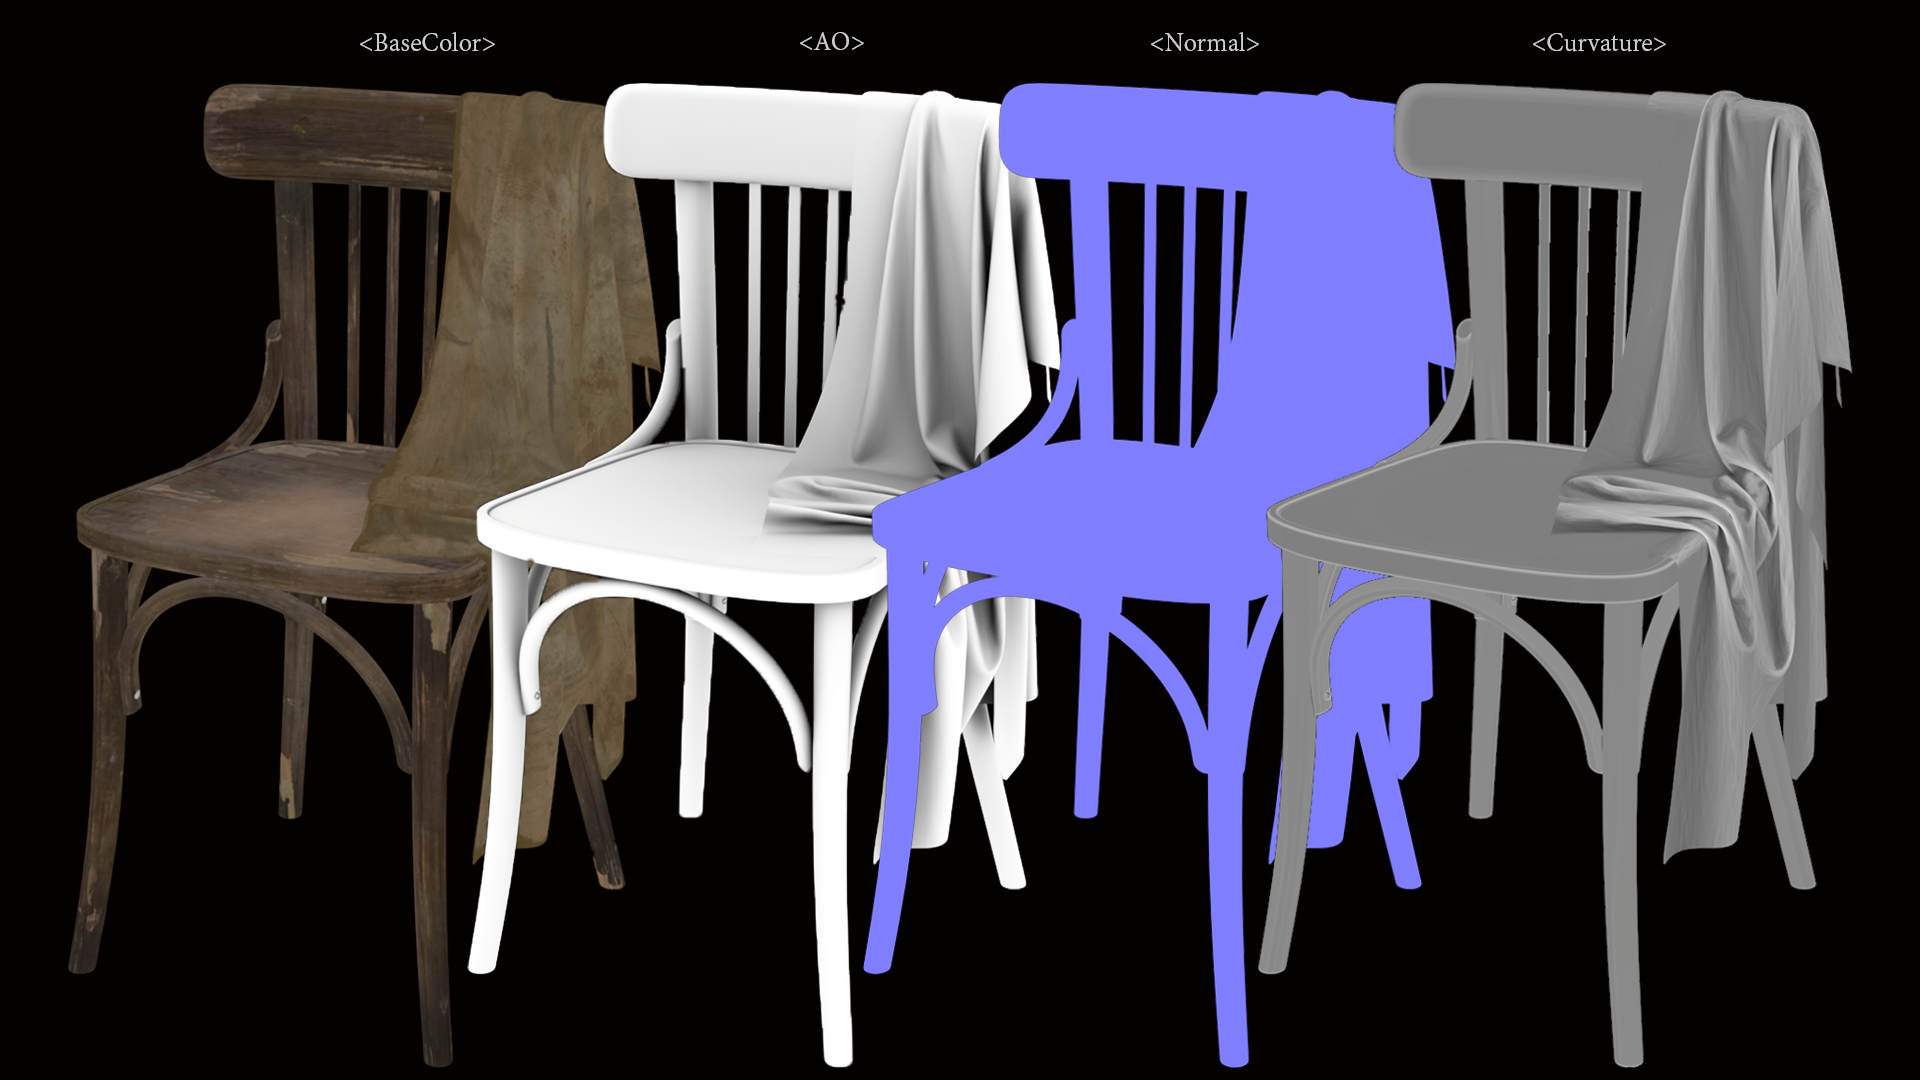
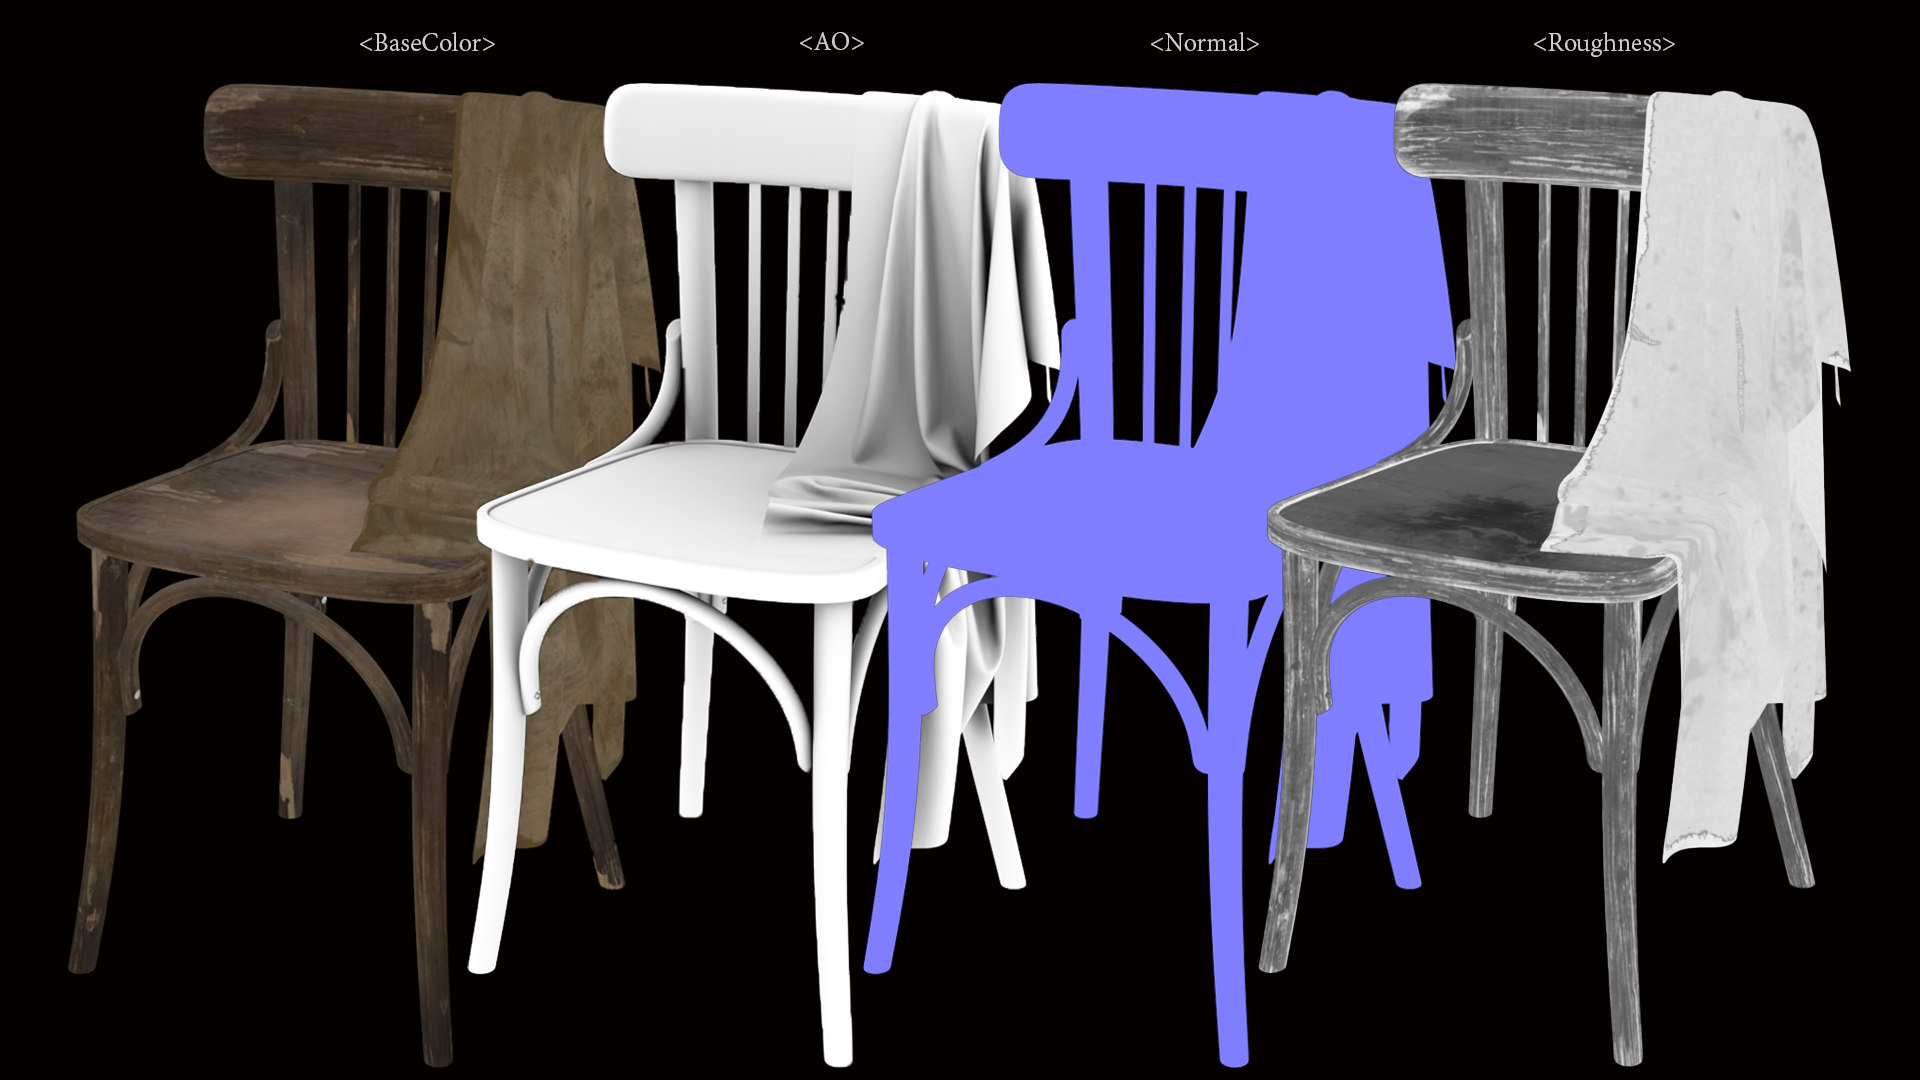
go

Changed region(s): [[0.6562, 0.0306, 0.9688, 0.9778]]

diff --git a/index.html b/index.html
@@ -11,7 +11,7 @@
   <link rel="preconnect" href="https://fonts.googleapis.com">
   <link rel="preconnect" href="https://fonts.gstatic.com" crossorigin>
   <link rel="preconnect" href="https://cdnjs.cloudflare.com">
-  <link href="https://fonts.googleapis.com/css2?family=Barlow+Condensed:wght@800;900&display=swap" rel="stylesheet">
+  <link href="https://fonts.googleapis.com/css2?family=Barlow+Condensed:wght@800;900&family=Noto+Sans+KR:wght@400;500;600;700;800;900&display=swap" rel="stylesheet">
   <link rel="stylesheet" href="https://cdnjs.cloudflare.com/ajax/libs/font-awesome/6.5.2/css/all.min.css">
 
   <script>
@@ -183,8 +183,8 @@
       position: absolute;
       inset: 0;
       background:
-        linear-gradient(90deg, rgba(0, 0, 0, .82) 0%, rgba(0, 0, 0, .28) 46%, rgba(0, 0, 0, .56) 100%),
-        linear-gradient(180deg, rgba(0, 0, 0, .34) 0%, rgba(0, 0, 0, .16) 44%, rgba(0, 0, 0, .92) 100%);
+        linear-gradient(90deg, rgba(0, 0, 0, .205) 0%, rgba(0, 0, 0, .07) 46%, rgba(0, 0, 0, .14) 100%),
+        linear-gradient(180deg, rgba(0, 0, 0, .085) 0%, rgba(0, 0, 0, .04) 44%, rgba(0, 0, 0, .23) 100%);
     }
 
     .hero-outline {
@@ -307,6 +307,11 @@
       background: #020305;
     }
 
+    .project-section {
+      border-top: 1px solid rgba(255, 255, 255, .10);
+      padding-bottom: 5rem;
+    }
+
     .works-frame {
       width: 100%;
     }
@@ -331,6 +336,10 @@
 
     .works-title span {
       color: #27a9ff;
+    }
+
+    .project-title {
+      font-size: clamp(calc(5.3rem + 2pt), calc(6.35vw + 2pt), calc(8.2rem + 2pt));
     }
 
     .works-head-line {
@@ -982,18 +991,37 @@
       width: var(--about-copy-width);
       height: var(--about-panel-height);
       max-width: none;
-      color: rgba(255, 255, 255, .64);
-      font-size: .98rem;
+      color: rgba(255, 255, 255, .69);
+      font-size: 1.05rem;
       line-height: 1.9;
     }
 
-    .about-copy strong {
+    .about-copy > strong {
       display: block;
       margin-bottom: .65rem;
       color: rgba(244, 240, 232, .88);
       font-size: clamp(1.45rem, 2vw, 2.1rem);
-      font-weight: 600;
+      font-family: "Noto Sans KR", "Malgun Gothic", system-ui, sans-serif;
+      font-weight: 700;
+      letter-spacing: -.035em;
       line-height: 1.45;
+      -webkit-font-smoothing: antialiased;
+      text-rendering: geometricPrecision;
+    }
+
+    .about-copy > p + p {
+      margin-top: 1.35rem;
+    }
+
+    .about-copy > p b,
+    .about-copy > p strong {
+      display: inline;
+      margin: 0;
+      color: #ffffff;
+      font-size: inherit;
+      font-weight: 900;
+      line-height: inherit;
+      text-shadow: 0 0 14px rgba(255, 255, 255, .12);
     }
 
     .about-profile-panel {
@@ -1084,6 +1112,8 @@
     }
 
     .about-education-year {
+      display: block;
+      margin-bottom: .2rem;
       color: rgba(244, 240, 232, .86);
       font-weight: 700;
     }
@@ -1204,6 +1234,10 @@
 
       .works-title {
         font-size: clamp(3.8rem, 18vw, 5.6rem);
+      }
+
+      .project-title {
+        font-size: clamp(calc(2.72rem + 7pt), calc(12.85vw + 7pt), calc(4rem + 7pt));
       }
 
       .works-head-line,
@@ -1515,8 +1549,8 @@
       }
 
       .about-layout {
-        --about-frame-width: min(100vw, calc((100vh - var(--header-height)) * 1.7777777778));
-        --about-frame-height: min(56.25vw, calc(100vh - var(--header-height)));
+        --about-frame-width: min(96vw, calc((100vh - var(--header-height)) * 1.7777777778));
+        --about-frame-height: calc(var(--about-frame-width) * .5625);
         --about-photo-height: 36.75cqw;
         --about-photo-width: 33.55cqw;
         --about-content-gap: 3.1cqw;
@@ -1524,14 +1558,14 @@
         height: var(--about-frame-height);
         aspect-ratio: 16 / 9;
         display: grid;
-        grid-template-columns: minmax(0, 72%) minmax(0, 1fr);
+        grid-template-columns: minmax(0, 72.5%) minmax(0, 25.1%);
         grid-template-rows: minmax(0, 1fr) auto;
         align-items: start;
         gap: 2.4%;
         row-gap: 2.15cqw;
         max-width: none;
         margin: 0 auto;
-        padding: 3.1% 2.8%;
+        padding: 3.1% 1.8%;
         container-type: inline-size;
         overflow: hidden;
       }
@@ -1567,11 +1601,11 @@
       .about-copy {
         width: 100%;
         height: 100%;
-        font-size: clamp(.72rem, .82cqw, .98rem);
-        line-height: 1.75;
+        font-size: clamp(.78rem, .9cqw, 1.05rem);
+        line-height: 1.72;
       }
 
-      .about-copy strong {
+      .about-copy > strong {
         margin-bottom: .65em;
         font-size: clamp(1.1rem, 1.55cqw, 2.1rem);
         line-height: 1.35;
@@ -1666,7 +1700,7 @@
     <section id="hero" class="section-view is-active">
       <div class="hero-media" aria-hidden="true">
         <img src="images/Personal/20260302_Antique Fireplace/main.png" alt="">
-        <iframe src="https://www.youtube.com/embed/LSr3tn-VHos?autoplay=1&amp;mute=1&amp;loop=1&amp;playlist=LSr3tn-VHos&amp;controls=0&amp;playsinline=1&amp;rel=0&amp;modestbranding=1" title="Portfolio showreel" allow="autoplay; encrypted-media" allowfullscreen></iframe>
+        <iframe src="https://www.youtube.com/embed/egbFWcBxmlk?autoplay=1&amp;mute=1&amp;loop=1&amp;playlist=egbFWcBxmlk&amp;controls=0&amp;playsinline=1&amp;rel=0&amp;modestbranding=1" title="Portfolio showreel" allow="autoplay; encrypted-media" allowfullscreen></iframe>
       </div>
 
       <div class="hero-outline left">ENV</div>
@@ -1705,8 +1739,18 @@
       </div>
     </section>
 
-    <section id="project" class="section-view editorial-section">
-      <div class="mx-auto min-h-[32rem] max-w-7xl px-4 sm:px-6 lg:px-8"></div>
+    <section id="project" class="section-view works-section project-section">
+      <div class="works-frame">
+        <div class="works-head">
+          <h2 class="works-title project-title">PRO<span>JECT</span></h2>
+          <div class="works-head-line" aria-hidden="true"></div>
+          <div class="works-count">
+            <strong id="projectCount">0 Projects</strong>
+            <span><i>·</i> Click — Detail</span>
+          </div>
+        </div>
+        <div id="projectGrid" class="works-grid"></div>
+      </div>
     </section>
 
     <section id="about" class="section-view editorial-section">
@@ -1718,11 +1762,14 @@
             <img src="images/About/Me.jpg" alt="Jihoon Choi portrait">
           </figure>
           <div class="about-copy">
-            <strong>공간의 분위기와 재질, 실루엣을 통해 작업의 이야기가 자연스럽게 전달되도록 만듭니다.</strong>
-            <p>3D 환경과 프랍을 중심으로 구조, 디테일, 라이팅을 세심하게 조율하며 보는 사람이 장면 안의 맥락을 읽을 수 있는 포트폴리오를 만들어가고 있습니다.</p>
+            <strong>디테일을 통해 게임 세계에 설득력을 더하는<br>3D 배경 아티스트입니다.</strong>
+            <p><strong>3ds Max · ZBrush · Substance Painter · Marmoset · UE5</strong>를 활용한 환경 제작 전 과정을 이해하고 있으며, 기획부터 모델링, 텍스처링, 라이팅과 씬 세팅까지 모든 단계를 직접 진행했습니다.</p>
+            <p>포트폴리오 작업에서는 오브젝트의 형태를 명확하게 보여주는 <strong>실루엣과 디테일 표현에 집중했습니다.</strong> 패브릭·석재·금속·유리·플라스틱·유기물 등 소재마다 서로 다른 표면의 특성과 질감을 관찰하고, 사용 흔적과 마모, 노화가 자연스럽게 드러나도록 표현하고자 했습니다. 또한 라이팅을 통해 제작한 오브젝트의 재질과 디테일이 효과적으로 전달될 수 있도록 작업했습니다.</p>
+            <p>게임을 좋아하며 자연스럽게 게임 속 환경과 오브젝트가 만들어지는 과정에 관심을 갖게 되었습니다. 플레이어가 작은 프랍 하나에서도 세계관과 이야기를 느끼고, 게임 속 공간에 더욱 깊이 몰입할 수 있도록 설득력 있는 환경을 만드는 것을 목표로 합니다.</p>
+            <p><strong>게임 배경 및 프랍 아티스트</strong>를 목표로 꾸준히 작업하고 있습니다.</p>
             <div class="about-education">
               <p class="about-education-kicker">Education</p>
-              <p class="about-education-main"><span class="about-education-year">2021 - 2027</span> <strong>Korea Aerospace University</strong></p>
+              <p class="about-education-main"><span class="about-education-year">2021 - 2027</span><strong>Korea Aerospace University</strong></p>
               <p class="about-education-sub">School of Aerospace and Mechanical Engineering</p>
             </div>
           </div>
@@ -1891,11 +1938,42 @@
 
     const projects = [
       {
+        id: "personal-windup",
+        category: "PERSONAL",
+        placement: "project",
+        title: "WeIND UP",
+        subtitle: "Team Project",
+        detailLabel: "Team Project",
+        descriptionHtml: "<strong>WeIND UP</strong>은 현재 개발 중인 <strong>2인 협동 퍼즐 게임</strong>입니다. 배경 아트팀은 <strong>아트팀장 1인과 프랍 모델러 2인</strong>으로 구성되어 있으며, 저는 <strong>프랍 모델러</strong>로 참여해 챕터별 분위기와 콘셉트에 맞는 다양한 프랍을 제작했습니다. 실제 게임에 적용되는 에셋인 만큼 <strong>게임 데이터에 적합한 최적화</strong>를 고려하는 동시에, 각 챕터의 분위기와 오브젝트의 특징이 효과적으로 드러날 수 있도록 <strong>실루엣과 형태 표현</strong>에 중점을 두고 작업했습니다.",
+        info: {
+          role: "3D Prop Modeling",
+          pipeline: "3D Max - RizomUv - Substance Painter - UE5"
+        },
+        publishedAt: "2026-09-02",
+        featured: true,
+        cover: "images/Personal/20260902_WeIND UP/Main.png?v=20260902-0127",
+        media: [
+          { type: "image", src: "images/Personal/20260902_WeIND UP/Main.png?v=20260902-0127", title: "Main" },
+          { type: "image", src: "images/Personal/20260902_WeIND UP/생쥐.png?v=20260902-0127", title: "Mouse 1" },
+          { type: "image", src: "images/Personal/20260902_WeIND UP/Ch1-3.png?v=20260902-0127", title: "Chapter 1-3" },
+          { type: "image", src: "images/Personal/20260902_WeIND UP/생쥐2.png?v=20260902-0127", title: "Mouse 2" },
+          { type: "image", src: "images/Personal/20260902_WeIND UP/Ch1-2.png?v=20260902-0127", title: "Chapter 1-2" },
+          { type: "image", src: "images/Personal/20260902_WeIND UP/Ch1-4.png?v=20260902-0127", title: "Chapter 1-4" },
+          { type: "image", src: "images/Personal/20260902_WeIND UP/Ch1-6.png?v=20260902-0127", title: "Chapter 1-6" },
+          { type: "image", src: "images/Personal/20260902_WeIND UP/Ch1-7.png?v=20260902-0127", title: "Chapter 1-7" },
+          { type: "image", src: "images/Personal/20260902_WeIND UP/Ch2-1.png?v=20260902-0127", title: "Chapter 2-1" },
+          { type: "image", src: "images/Personal/20260902_WeIND UP/Ch2-2.png?v=20260902-0127", title: "Chapter 2-2" },
+          { type: "image", src: "images/Personal/20260902_WeIND UP/Ch2-3.png?v=20260902-0127", title: "Chapter 2-3" },
+          { type: "image", src: "images/Personal/20260902_WeIND UP/Ch2-5.png?v=20260902-1601", title: "Chapter 2-5" },
+          { type: "image", src: "images/Personal/20260902_WeIND UP/Ch2-4.png?v=20260902-1601", title: "Chapter 2-4" }
+        ]
+      },
+      {
         id: "personal-stylized-axe",
         category: "PERSONAL",
         title: "Stylized Axe",
         subtitle: "Stylized weapon",
-        descriptionHtml: "강한 실루엣과 과장된 형태감을 중심으로 제작한 스타일라이즈드 도끼 프랍입니다. 날과 손잡이의 비율, 금속과 가죽의 대비, 표면 마모를 통해 무기의 무게감과 판타지 분위기를 전달하고자 했습니다. <strong>형태 언어와 재질 대비</strong>를 정리하며 <strong>스타일라이즈드 프랍 표현</strong>에 집중했습니다.",
+        descriptionHtml: "강한 <strong>실루엣과 과장된 형태감</strong>을 중심으로 제작한 스타일라이즈드 도끼 프랍입니다. 게임 에셋 제작을 고려해 형태를 효과적으로 유지할 수 있는 <strong>폴리곤 수와 와이어프레임 구성</strong>을 신경 써 모델링했으며, 포트폴리오 작업인 만큼 실루엣과 디테일이 필요한 부분에는 폴리곤을 조금 더 활용했습니다. 단순히 폴리곤 수를 줄이는 것보다 <strong>실루엣을 유지하면서 불필요한 면을 줄이고, 형태에 맞게 효율적으로 폴리곤을 배분하는 것</strong>에 중점을 두었습니다. 이를 통해 스타일라이즈드 프랍의 형태 표현과 함께 <strong>게임 에셋을 고려한 모델링</strong>을 보여주고자 했습니다.",
         info: {
           pipeline: "3D Max → RizomUV → Zbrush → Substance Painter → Marmoset → Photoshop"
         },
@@ -2033,7 +2111,7 @@
           { type: "image", src: "images/Personal/20260625_Old Chair/T_7_Main Camera 1_FullQuality.png", title: "Camera 1" },
           { type: "image", src: "images/Personal/20260625_Old Chair/T_7_Main Camera 3_FullQuality.png", title: "Camera 3" },
           { type: "image", src: "images/Personal/20260625_Old Chair/T_7_Main Camera 2_FullQuality.png", title: "Camera 2" },
-          { type: "image", src: "images/Personal/20260625_Old Chair/Maps.png", title: "Maps" }
+          { type: "image", src: "images/Personal/20260625_Old Chair/Maps.png?v=20260903-1613", title: "Maps" }
         ]
       },
       {
@@ -2140,6 +2218,7 @@
     const selectors = {
       allGrid: document.getElementById("allGrid"),
       allSentinel: document.getElementById("allSentinel"),
+      projectGrid: document.getElementById("projectGrid"),
       rankGrid: document.getElementById("rankGrid"),
       rankStatus: document.getElementById("rankStatus"),
       featuredGrid: document.getElementById("featuredGrid"),
@@ -2153,6 +2232,7 @@
       mobileLightboxMeta: document.getElementById("mobileLightboxMeta"),
       lightboxCount: document.getElementById("lightboxCount"),
       worksCount: document.getElementById("worksCount"),
+      projectCount: document.getElementById("projectCount"),
       zoomOverlay: document.getElementById("zoomOverlay"),
       zoomStage: document.getElementById("zoomStage"),
       zoomImage: document.getElementById("zoomImage"),
@@ -2334,6 +2414,7 @@
     function renderAllStaticSections() {
       renderFeatured();
       renderRankGrid(getRankOrderedProjects());
+      renderProjectSection();
     }
 
     function renderCategoryGrid(category, gridId, emptyId) {
@@ -2365,6 +2446,16 @@
       selectors.rankGrid.querySelectorAll("[data-project-id]").forEach(bindCardOpen);
     }
 
+    function renderProjectSection() {
+      if (!selectors.projectGrid) return;
+      const items = getProjectSectionProjects();
+      selectors.projectGrid.innerHTML = createWorksRows(items, "project");
+      selectors.projectGrid.querySelectorAll("[data-project-id]").forEach(bindCardOpen);
+      if (selectors.projectCount) {
+        selectors.projectCount.textContent = `${items.length} ${items.length === 1 ? "Project" : "Projects"}`;
+      }
+    }
+
     function setupInfiniteScroll() {
       const observer = new IntersectionObserver((entries) => {
         const entry = entries[0];
@@ -2390,16 +2481,7 @@
 
       const source = getAllFilteredProjects();
       const nextItems = source.slice(state.allRenderIndex, state.allRenderIndex + PAGE_SIZE);
-      const rows = [];
-      for (let index = 0; index < nextItems.length; index += 3) {
-        const rowItems = nextItems.slice(index, index + 3);
-        rows.push(`
-          <div class="works-row${rowItems.length < 3 ? " is-incomplete" : ""}" style="--row-count: ${rowItems.length}">
-            ${rowItems.map((project) => createProjectCard(project, { source: "all" })).join("")}
-          </div>
-        `);
-      }
-      const html = rows.join("");
+      const html = createWorksRows(nextItems, "all");
       selectors.allGrid.insertAdjacentHTML("beforeend", html);
       selectors.allGrid.querySelectorAll("[data-project-id]:not([data-bound])").forEach(bindCardOpen);
       state.allRenderIndex += nextItems.length;
@@ -2411,6 +2493,19 @@
       }
 
       state.isAppendingAll = false;
+    }
+
+    function createWorksRows(items, source = "all") {
+      const rows = [];
+      for (let index = 0; index < items.length; index += 3) {
+        const rowItems = items.slice(index, index + 3);
+        rows.push(`
+          <div class="works-row${rowItems.length < 3 ? " is-incomplete" : ""}" style="--row-count: ${rowItems.length}">
+            ${rowItems.map((project) => createProjectCard(project, { source })).join("")}
+          </div>
+        `);
+      }
+      return rows.join("");
     }
 
     function updateWorksCount() {
@@ -2457,7 +2552,7 @@
         const source = card.dataset.openSource || "category";
         if (!project) return;
 
-        const projectSet = getAllFilteredProjects();
+        const projectSet = source === "project" ? getProjectSectionProjects() : getAllFilteredProjects();
         openLightbox(projectSet.some((item) => item.id === project.id) ? projectSet : projects, project.id, { mode: source });
       });
     }
@@ -2523,7 +2618,7 @@
 
       const media = project.media[state.lightbox.mediaIndex] || project.media[0];
       selectors.lightboxTitle.textContent = project.title;
-      selectors.lightboxMeta.textContent = `${categoryMeta[project.category]?.label || ""} / ${formatDate(project.publishedAt)}`;
+      selectors.lightboxMeta.textContent = `${getProjectDetailLabel(project)} / ${formatDate(project.publishedAt)}`;
       selectors.mobileLightboxTitle.textContent = project.title;
       selectors.mobileLightboxMeta.textContent = selectors.lightboxMeta.textContent;
       selectors.lightboxCount.textContent = `${project.title} · ${state.lightbox.mediaIndex + 1} / ${project.media.length}`;
@@ -2796,7 +2891,7 @@
     }
 
     function renderProjectInfo(project, media) {
-      const category = categoryMeta[project.category]?.label || "Portfolio";
+      const category = getProjectDetailLabel(project);
       const details = {
         role: project.info?.role || "Full Pipeline",
         scope: project.info?.scope || "Modeling · Material Authoring · Lighting · Scene Composition",
@@ -3082,9 +3177,19 @@
     }
 
     function getAllFilteredProjects() {
-      const works = projects.filter((project) => project.category !== "SKETCH");
+      const works = projects.filter((project) => project.category !== "SKETCH" && !isProjectSectionProject(project));
       const source = state.allFilter === "ALL" ? works : works.filter((project) => project.category === state.allFilter);
       return [...source].sort((a, b) => new Date(b.publishedAt) - new Date(a.publishedAt));
+    }
+
+    function getProjectSectionProjects() {
+      return projects
+        .filter(isProjectSectionProject)
+        .sort((a, b) => new Date(b.publishedAt) - new Date(a.publishedAt));
+    }
+
+    function isProjectSectionProject(project) {
+      return project.placement === "project";
     }
 
     function getProjectBadge(project) {
@@ -3108,6 +3213,10 @@
       if (firstImage) return firstImage.src;
       const firstYoutube = project.media.find((media) => media.type === "youtube" && (media.youtubeId || project.youtubeId));
       return firstYoutube ? getYoutubeThumb(firstYoutube.youtubeId || project.youtubeId) : "";
+    }
+
+    function getProjectDetailLabel(project) {
+      return project.detailLabel || categoryMeta[project.category]?.label || "Portfolio";
     }
 
     function getYoutubeThumb(youtubeId) {
